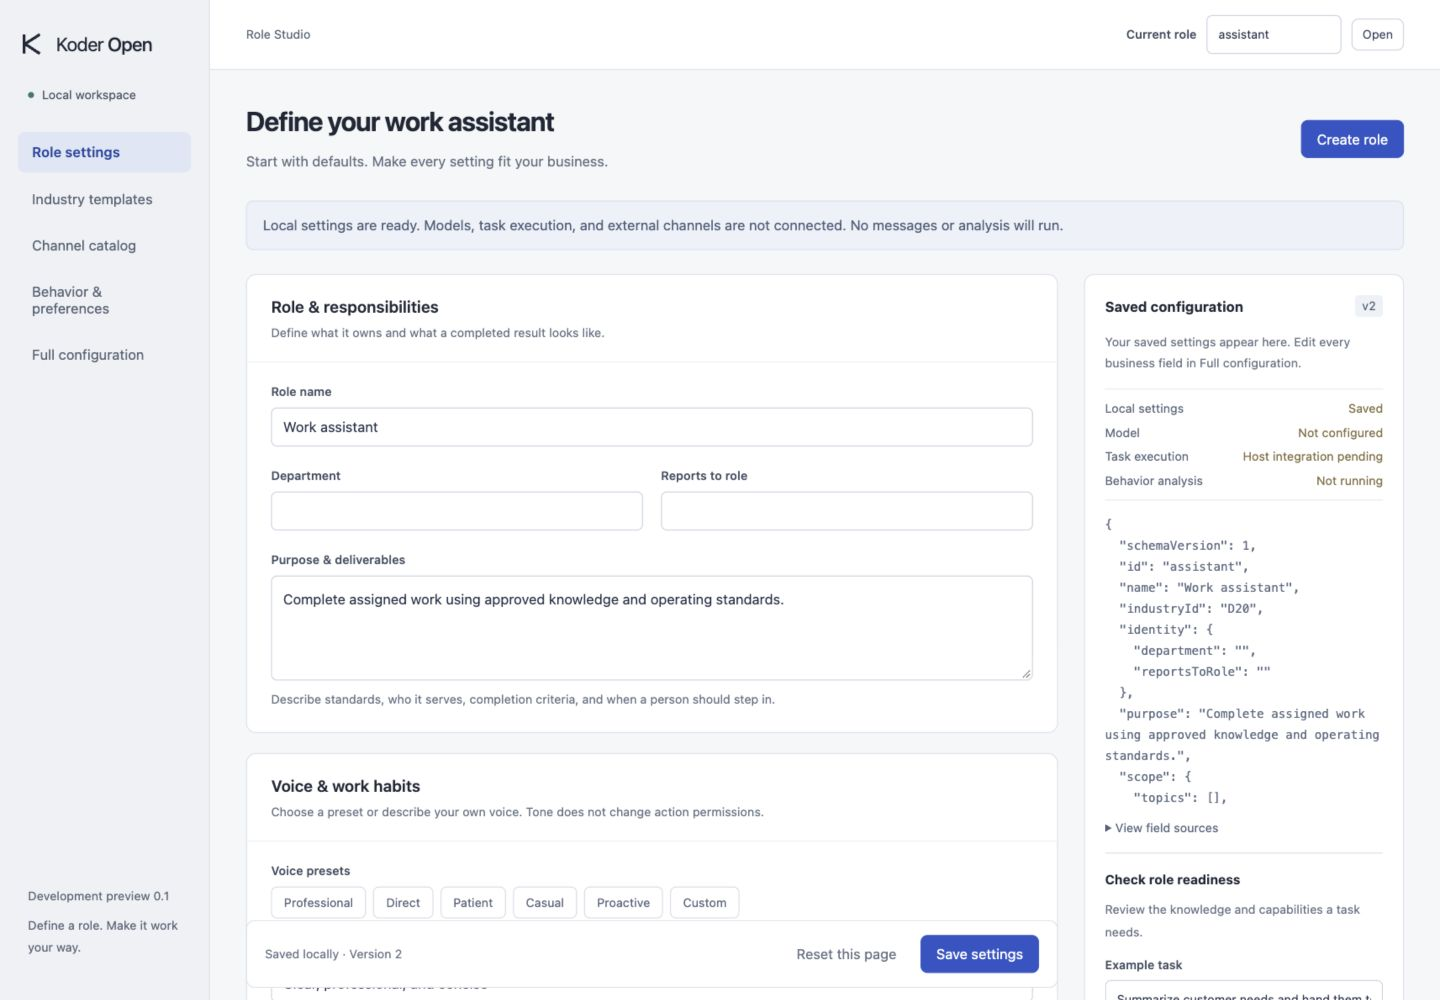
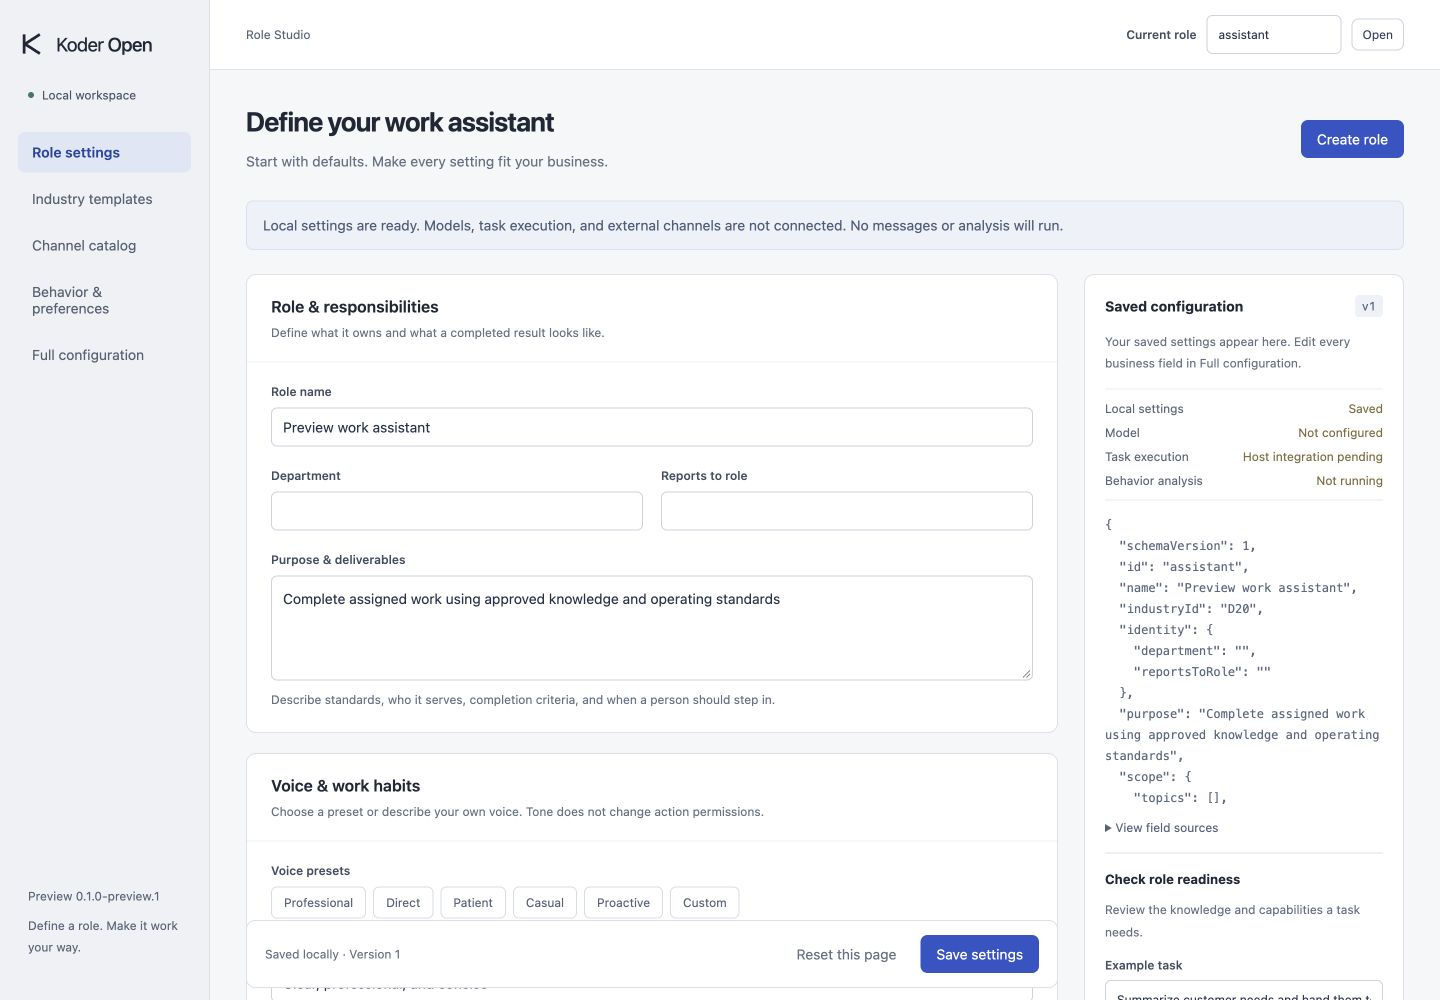
Add independent Koder Open CLI preview installation and release guide

diff --git a/README.md b/README.md
@@ -6,9 +6,26 @@ Koder Open CLI is a configurable AI role platform from [KarmenLoop](https://karm
 
 Start with ready-to-edit defaults. Shape every business setting. Bring the role to the websites, collaboration tools, and messaging channels where work happens.
 
-**Status:** active development · local configuration preview available · live integrations in progress.
+**Status:** 0.1.0-preview.1 · installable macOS Apple Silicon configuration preview · live integrations in progress.
 
-**Repository scope:** public English product information and sanitized preview images only. Product source code, executable skills, private host components, runtime data, installers, and binaries are not included.
+**Repository scope:** English product documentation, sanitized preview images, and the download installer. Proprietary executable packages are distributed as Release assets. Product source code, private host components, and user data are not published in this Git tree.
+
+## Download the independent preview
+
+**[Download Koder Open CLI 0.1.0-preview.1 for macOS Apple Silicon](https://github.com/KarmenLoop/koder-open-cli/releases/download/v0.1.0-preview.1/koder-open-0.1.0-preview.1-darwin-arm64.tar.gz)** · [Release notes and checksums](https://github.com/KarmenLoop/koder-open-cli/releases/tag/v0.1.0-preview.1)
+
+This package includes the runtime and requires no separate Node.js installation. It uses the independent `koder-open` command and version series.
+
+Install from Terminal:
+
+```sh
+curl -fsSL https://raw.githubusercontent.com/KarmenLoop/koder-open-cli/main/install/koder-open.sh | sh
+"$HOME/.local/bin/koder-open" studio
+```
+
+Open the local URL printed by Studio. Or extract the downloaded archive and run `sh install.sh` inside it. See [installation, upgrade, rollback, and uninstall instructions](docs/INSTALLATION.md).
+
+**Platform:** macOS 11+ on Apple Silicon. **Distribution:** proprietary preview, ad-hoc signed, not Apple notarized. Additional platforms are still pending. This preview provides local role configuration and synthetic checks; models, live business channels, and active behavior analysis are not connected.
 
 ![Koder Open Role Studio — English local development preview](media/role-studio.jpg)
 
@@ -59,16 +76,16 @@ The connector roadmap also covers eleven categories: knowledge/documents, CRM, s
 
 | Available locally | Still in development |
 | --- | --- |
-| English Role Studio and CLI configuration entry | Integrated live role task execution |
+| English Role Studio, CLI, and macOS Apple Silicon installer | Integrated live role task execution |
 | Role creation and editable defaults | Complete natural-language setup wizard |
 | Twenty domain configuration seeds | Professional industry packs and reviews |
 | Eighteen-channel capability catalog | Connected and verified business channels |
 | Full configuration editing and field sources | Business connectors and website widget |
 | Save/reopen, conflict checks, reset, and rollback | Cross-device shared memory integration |
 | Synthetic role-readiness checks | Running behavior analysis and controlled adaptation |
-| Bundled, disabled behavior skill | Installers, server deployment, and independent product QA |
+| Bundled, disabled behavior skill | Additional platforms, server deployment, and independent product QA |
 
-The local candidate passed 44 automated tests after the English update. Browser checks verified English editing, saving, reopening, and responsive layout separately. These checks do not establish live channel or production readiness.
+The preview passed 47 source tests and 13 installer/runtime/distribution acceptance checks. These cover native binary startup, HTTP save/reopen, download checksums, installation, repeated installation, upgrade, rollback, collision protection, tamper rejection, and uninstall with user data retained. Browser save/reopen was also verified against the installed executable. These checks do not establish live channel or production readiness.
 
 ## Additional preview views
 
@@ -83,11 +100,11 @@ The complete acceptance target includes 200 professional domain cases, 360 confi
 
 ## Availability
 
-This repository is an introduction, not an installable release. No public product-source download, package, or installer is offered here. Local use, BYOK, and compatible installed local models are part of the product direction; external model and platform costs depend on the services selected.
+The independent configuration preview is available from the Release linked above. The complete AI role runtime remains in development. Local use, BYOK, and compatible installed local models remain part of the product direction; external model and platform costs depend on the services selected.
 
 ## License and source availability
 
-Koder Open CLI is proprietary software. Its product source code remains private. Public documentation, images, and original branding in this repository are **all rights reserved**; see [LICENSE](LICENSE).
+Koder Open CLI is proprietary software. Its product source code remains private. The executable preview is provided under the bundled [Proprietary Preview License](docs/PREVIEW_LICENSE.txt), which permits installation and internal use. Public documentation, images, and original branding remain **all rights reserved**; see [LICENSE](LICENSE). Bundled Node.js components retain their own licenses.
 
 This repository is not licensed under GPL-3.0. Separately released [Koder CLI](https://github.com/KarmenLoop/koder-cli) components and third-party materials retain their respective licenses. This notice does not relicense them or grant rights to the private Koder kernel.
 

diff --git a/docs/INSTALLATION.md b/docs/INSTALLATION.md
@@ -1,0 +1,75 @@
+# Installing Koder Open CLI Preview
+
+Version: **0.1.0-preview.1** · Product command: **koder-open**
+
+## Supported platform
+
+macOS 11 or later on Apple Silicon (arm64). Node.js is included in the executable. Windows, Intel Mac, and Linux packages are not available in this preview. The binary is ad-hoc signed for development and is not Apple notarized.
+
+This is a local role-configuration preview. It does not include live model task execution, connected business channels, active behavior analysis, or integrated cross-device memory. No model credentials or subscription are needed for the included features.
+
+## One-command installation
+
+```sh
+curl -fsSL https://raw.githubusercontent.com/KarmenLoop/koder-open-cli/main/install/koder-open.sh | sh
+```
+
+The downloader checks the platform, downloads this exact preview package, verifies its SHA-256 digest, validates archive paths/types, and invokes the bundled installer. The installer verifies the internal payload again. It uses your account and does not request administrator privileges or edit your shell profile.
+
+Start Studio:
+
+```sh
+"$HOME/.local/bin/koder-open" version
+"$HOME/.local/bin/koder-open" studio
+```
+
+Open the returned localhost URL. Press Ctrl+C to stop Studio. It listens only on 127.0.0.1.
+
+## Manual installation
+
+Download [the macOS Apple Silicon archive](https://github.com/KarmenLoop/koder-open-cli/releases/download/v0.1.0-preview.1/koder-open-0.1.0-preview.1-darwin-arm64.tar.gz) and [its checksum](https://github.com/KarmenLoop/koder-open-cli/releases/download/v0.1.0-preview.1/koder-open-0.1.0-preview.1-darwin-arm64.sha256). Verify both from the directory containing them:
+
+```sh
+shasum -a 256 -c koder-open-0.1.0-preview.1-darwin-arm64.sha256
+tar -xzf koder-open-0.1.0-preview.1-darwin-arm64.tar.gz
+cd koder-open-0.1.0-preview.1-darwin-arm64
+sh install.sh
+```
+
+Then start Studio using the command above.
+
+## Locations
+
+| Item | Default location |
+| --- | --- |
+| Managed runtime | `~/.local/share/koder-open/versions/<version>` |
+| Current runtime | `~/.local/share/koder-open/current` |
+| Previous runtime | `~/.local/share/koder-open/previous` after an upgrade |
+| Command | `~/.local/bin/koder-open` |
+| User configuration | `~/.koder-open` |
+
+Set `KODER_OPEN_INSTALL_ROOT` and `KODER_OPEN_BIN_DIR` for an isolated installation. Use `--home <directory>` or `KODER_OPEN_HOME` to select your configuration directory. Installation and configuration are independent. A foreign existing `koder-open` command is reported as a conflict rather than overwritten. The existing `koder` command is separate.
+
+## Upgrade and rollback
+
+Install a verified newer preview archive in the same installation root. The installer retains your configuration and previous runtime. To restore the previous runtime:
+
+```sh
+sh "$HOME/.local/share/koder-open/previous/install.sh"
+```
+
+Runtime rollback does not roll back user configuration. Use the CLI's configuration `rollback --target-revision <number>` with the intended role/home if needed. Configuration rollback creates a new revision and never restores past execution authority.
+
+## Uninstall
+
+```sh
+sh "$HOME/.local/share/koder-open/current/uninstall.sh"
+```
+
+This removes the managed runtime and owned command link. Configuration directories are retained. The uninstaller refuses unexpected extra files in a runtime directory; move your files elsewhere before retrying. An isolated installation must use the same install-root and bin-directory environment variables used at installation.
+
+## Verification and limits
+
+The published candidate passed 47 source tests and 13 installation/runtime/distribution checks on macOS arm64. Acceptance included an actual native predecessor upgrade/rollback, real local HTTP download and checksum rejection, protected Studio save/reopen after clean shutdown, repeated installation, conflicts, symlink refusal, tamper detection, and uninstall without deleting configuration. Browser editing/save/reopen was observed from the installed binary.
+
+These are local preview checks, not independent full-product QA or validation of other platforms, real business channels, models, or user behavior analysis. The package includes the proprietary preview license and full Node.js notices. Product source and source maps are not distributed as files.

diff --git a/docs/DEVELOPMENT_PLAN.md b/docs/DEVELOPMENT_PLAN.md
@@ -6,7 +6,7 @@ This plan retains the full product scope: 20 requirements, 20 domains, 18 channe
 
 ## Current milestone
 
-The local development preview has a configuration compiler and schema, versioned file persistence, conflict checks, reset/rollback, independent CLI entry, a local Role Studio, 20 editable domain seeds, an 18-channel catalog, and a bundled disabled behavior skill. It does not yet have integrated live task execution, connected channels, running behavior analysis, completed professional domain evaluations, installers, or independent product QA. Existing tests establish only their tested local boundaries.
+The local development preview has a configuration compiler and schema, versioned file persistence, conflict checks, reset/rollback, independent CLI entry, a local Role Studio, 20 editable domain seeds, an 18-channel catalog, and a bundled disabled behavior skill. It does not yet have integrated live task execution, connected channels, running behavior analysis, completed professional domain evaluations, other-platform installers, or independent product QA. A native macOS Apple Silicon configuration-preview installer is now available. Existing tests establish only their tested local boundaries.
 
 ## Engineering principles
 
@@ -236,4 +236,4 @@ The complete product requires evidence for R01–R20, D01–D20, C01–C18, all 
 
 ## Publication policy
 
-The public repository contains English product documentation and sanitized preview images only. Keep runtime source, executable skills, configuration seeds, host internals, customer data, secrets, and internal evidence outside its Git history. Do not apply GPL-3.0 to these public materials or relabel any existing GPL component. Product software is proprietary and remains privately held; no installer or binary release is published by this documentation milestone.
+The public Git tree contains English product documentation, sanitized preview images, and the download installer. Keep product runtime source, source maps, host internals, customer data, secrets, and internal evidence outside its Git history. The proprietary 0.1.0-preview.1 macOS arm64 runtime is distributed as a Release asset under its bundled preview license. This configuration-preview milestone does not satisfy complete-product acceptance. Existing GPL components retain their licenses.

diff --git a/docs/PRODUCT_SPEC.md b/docs/PRODUCT_SPEC.md
@@ -1,8 +1,8 @@
 # Koder Open CLI — Product Specification
 
-Version 1.1 · October 19, 2026 · English edition
+Version 1.2 · October 19, 2026 · English edition
 
-This specification defines the complete product scope. It is a development target, not a statement that every feature is available. The English edition updates the shipped language to English; users can customize role languages. The software remains proprietary. Public GitHub materials contain product information, not product source code.
+This specification defines the complete product scope. It is a development target, not a statement that every feature is available. The English edition updates the shipped language to English; users can customize role languages. The software remains proprietary. Public GitHub materials contain product information and a download installer. The proprietary macOS arm64 configuration-preview executable is a separate Release asset; product source code remains private.
 
 ## 1. Product definition
 
